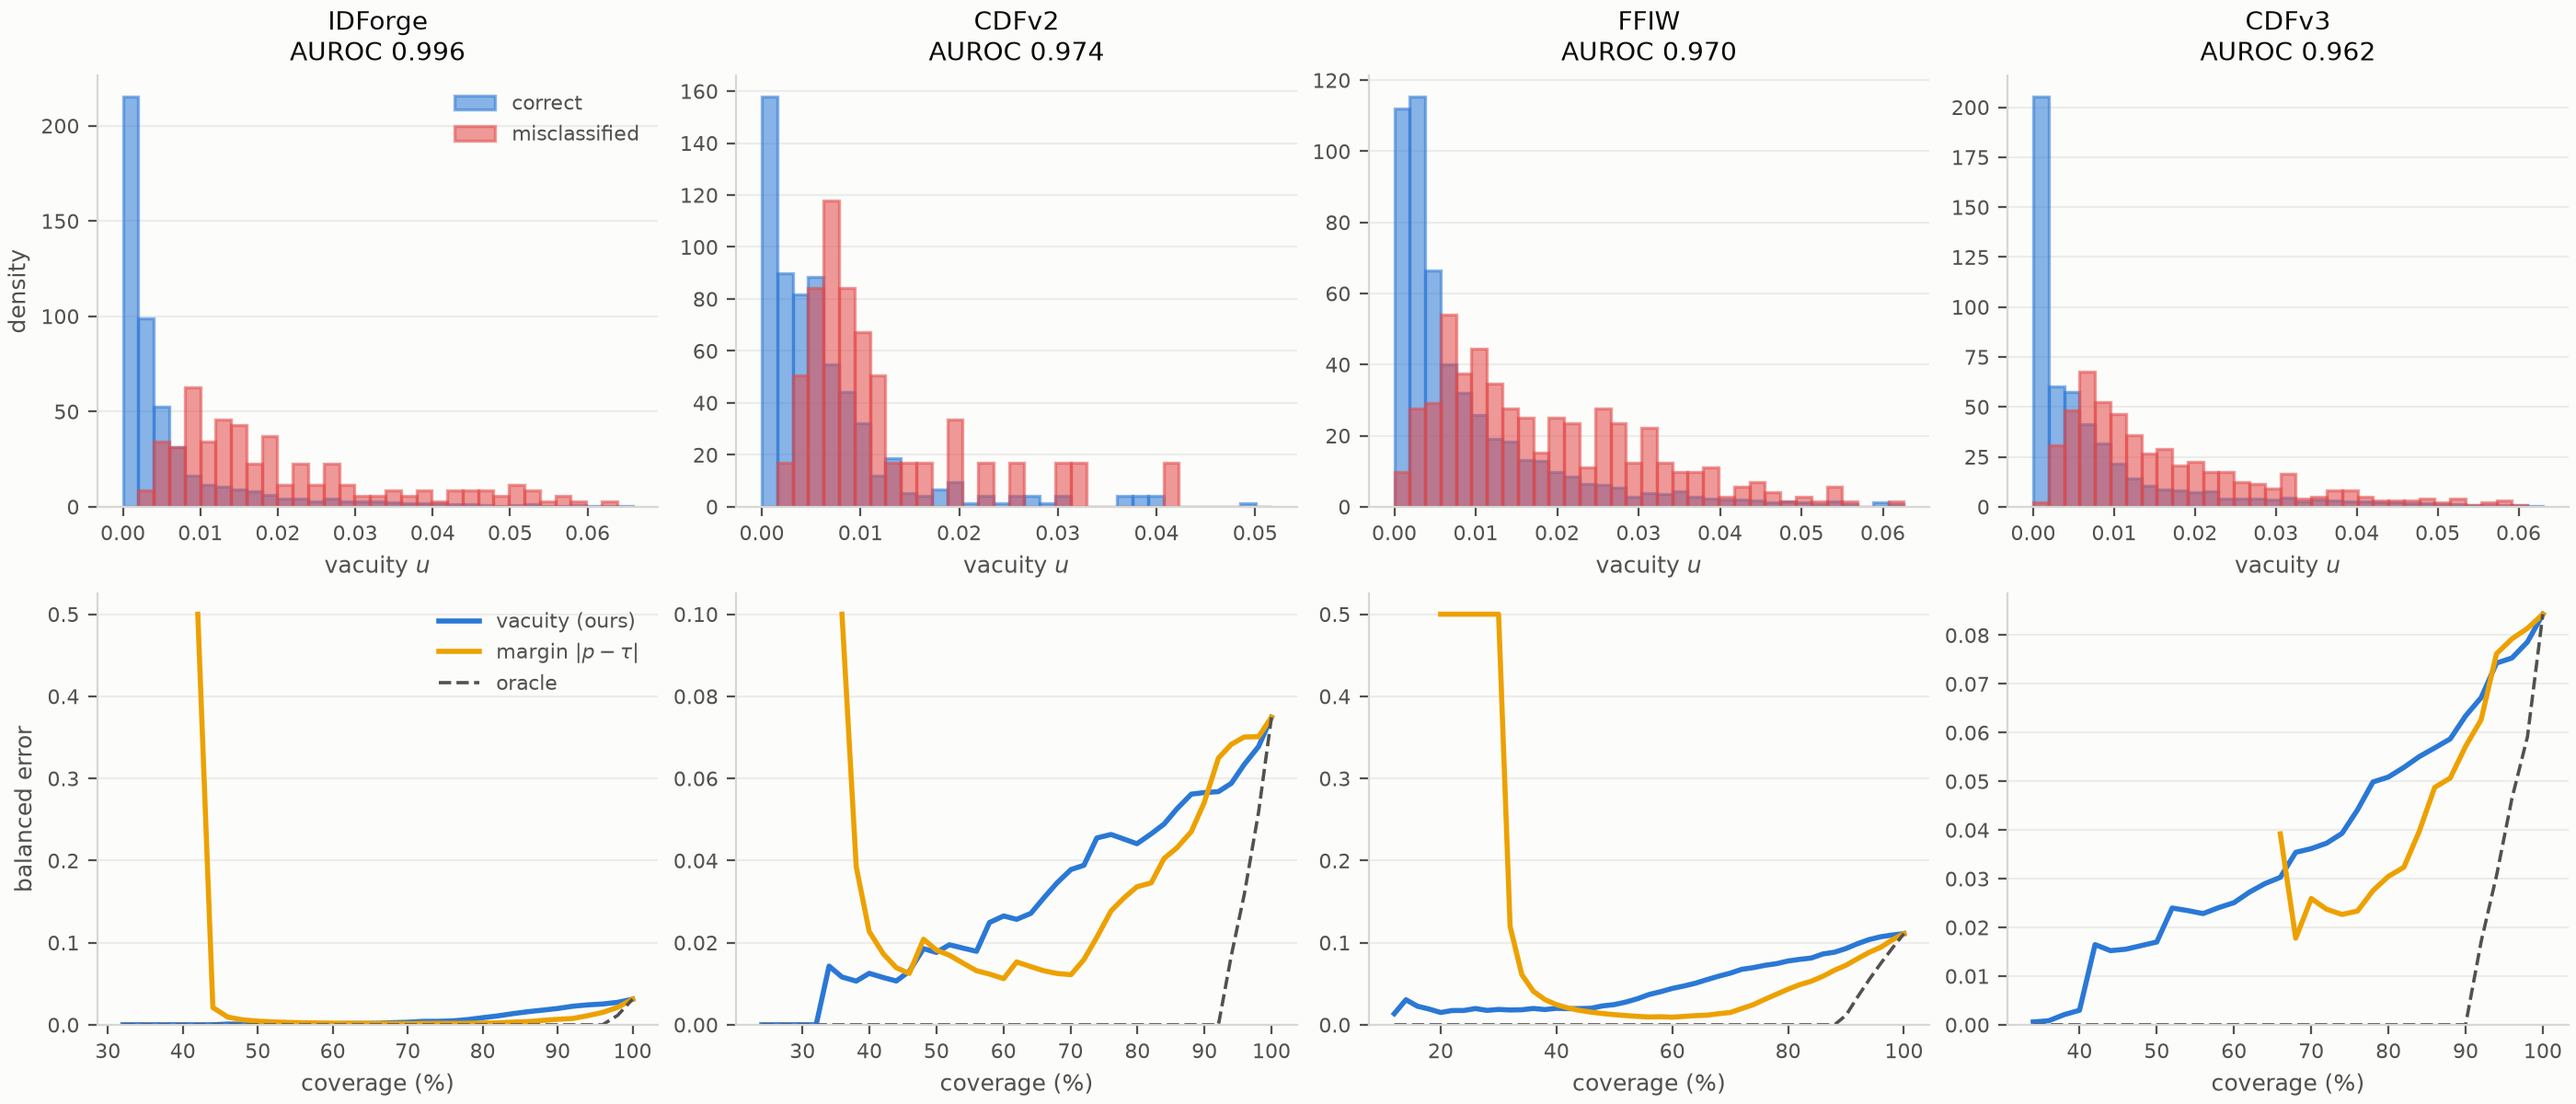
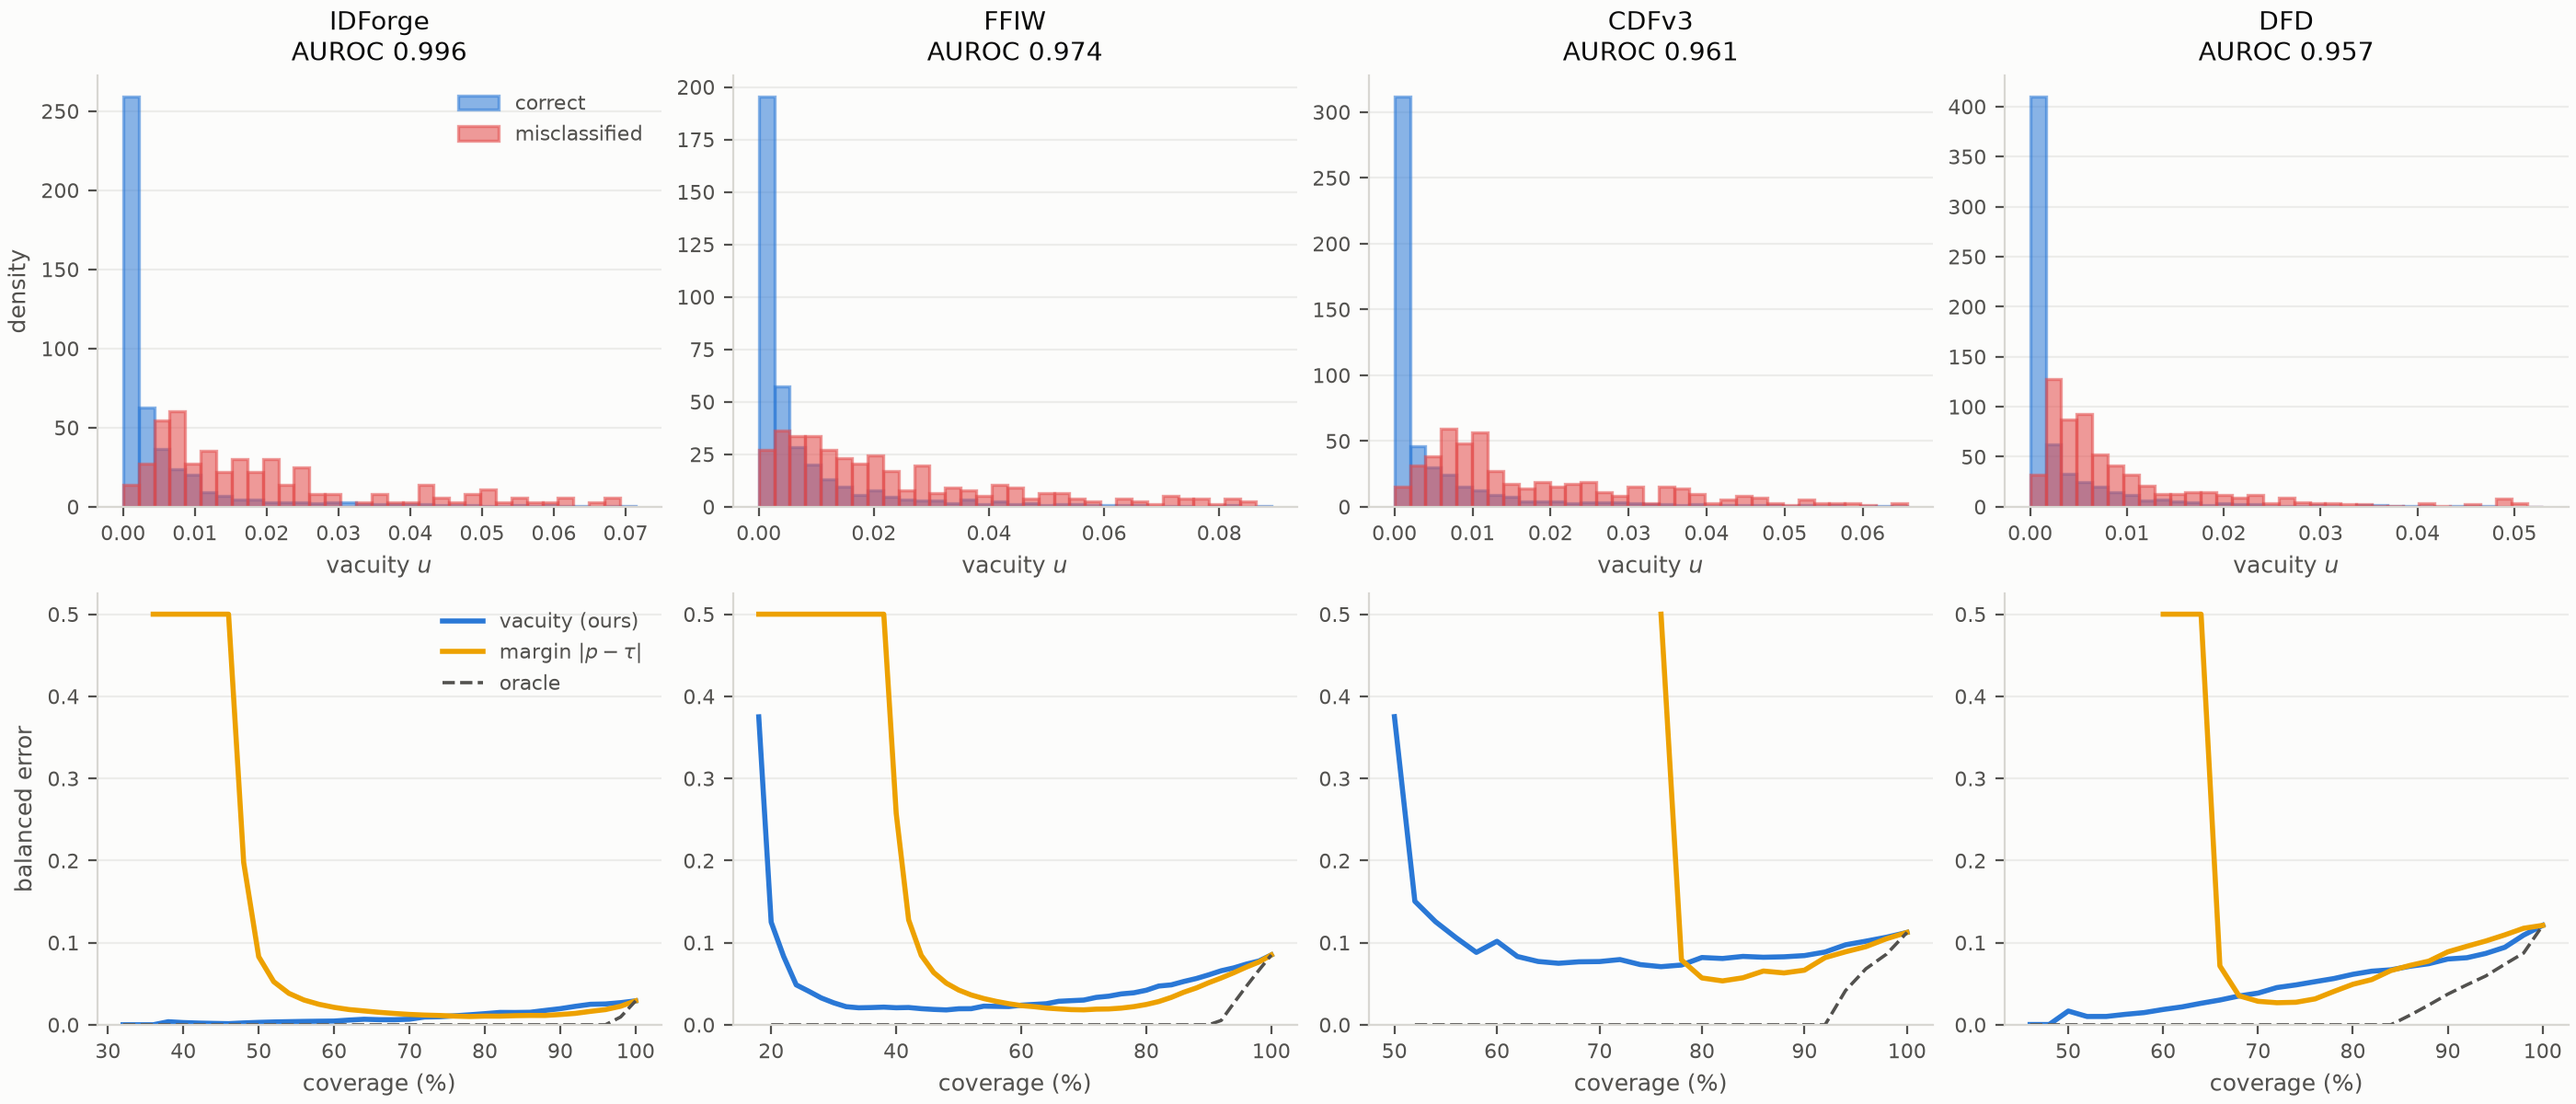
fusion: new GenD sets scored, all tables and the figure regenerated
Committed unattended overnight; see reports/branch_fusion/ORCHESTRATOR_LOG.md.

diff --git a/reports/branch_fusion/ORCHESTRATOR_LOG.md b/reports/branch_fusion/ORCHESTRATOR_LOG.md
@@ -114,4 +114,111 @@
       gate 2  phi vs A +0.500 < 0.6  -> PASS
       S16om is reported, not registered: a branch that fails either gate would either duplicate A or be worse than the same network without the residual.
 [2026-10-11T02:10:45-04:00] no branch passed both gates; the deployed selection stands
+[2026-10-11T02:10:54-04:00] committed: fusion: the PE-Core off-manifold campaign re-run with the residual in the optimiser
+[2026-10-11T02:10:54-04:00] === v3 finisher done ===
+[2026-10-11T10:49:36-04:00] seed replicate start: om_P16ctl_seed1 on GPU 1
+[2026-10-11T13:18:51-04:00] === robustness lane: Y16 vs A under jpeg:40 ===
+[2026-10-11T13:18:53-04:00] robustness: A extract failed on VALmix
+[2026-10-11T13:19:46-04:00] === robustness lane: Y16 vs A under jpeg:40 ===
+[2026-10-11T13:54:27-04:00] === robustness lane done -- see reports/branch_fusion/ROBUSTNESS_Y16.md ===
+[2026-10-11T14:13:20-04:00] === all-14 per-dataset grid: 16383 subsets across 32 shards ===
+[2026-10-11T14:15:43-04:00] === robustness lane (full): both conditions, development and test ===
+[2026-10-11T14:18:06-04:00] all-14 grid: shards done, merging
+[2026-10-11T14:18:08-04:00] all-14 grid MERGE FAILED -- see logs/branchfusion/lanes/grid_all14_merge.log
+[2026-10-11T14:18:37-04:00] === all-16 per-dataset grid: 65535 subsets across 64 shards ===
+[2026-10-11T14:28:46-04:00] === grid switch: waiting for P16ctlB to register ===
+[2026-10-11T14:44:21-04:00] grid switch: still waiting for P16ctlB (15 min)
+[2026-10-11T14:55:20-04:00] === robustness (parallel): 52 passes across GPUs 1, 3 and 0 ===
+[2026-10-11T14:59:56-04:00] grid switch: still waiting for P16ctlB (30 min)
+[2026-10-11T15:15:35-04:00] grid switch: still waiting for P16ctlB (45 min)
+[2026-10-11T15:27:22-04:00] all-16 grid retired EARLY: its rows are discarded by the 17-branch switch anyway, and at 4 subsets/min under extraction contention it was burning 64 cores for nothing
+[2026-10-11T15:31:11-04:00] grid switch: still waiting for P16ctlB (60 min)
+[2026-10-11T15:34:33-04:00] grid switch STOPPED: the all-subsets grid is not computable -- fit_weights searches 5^k - 4^k weight vectors, so all 2^17-1 subsets is 3024 core-years
+[2026-10-11T15:40:06-04:00] === final grid: waiting for P16ctlB ===
+[2026-10-11T15:55:53-04:00] final grid: still waiting for P16ctlB (15 min)
+[2026-10-11T16:11:28-04:00] final grid: still waiting for P16ctlB (30 min)
+[2026-10-11T16:27:01-04:00] final grid: still waiting for P16ctlB (45 min)
+[2026-10-11T16:40:43-04:00] om_P16ctl_seed1 DONE
+[2026-10-11T16:41:33-04:00] final grid: P16ctlB registered; 17 branches
+[2026-10-11T16:41:33-04:00] grid all17eq: sizes 1,2,3,4,5,6,7,8,9,10,11,12,13,14,15,16,17, weight grid equal, 128 shards
+[2026-10-11T16:43:10-04:00] === om_P16ctl_seed1 lane done ===
+[2026-10-11T16:53:53-04:00] robustness (parallel): extraction done; exporting Y16 opinions
+[2026-10-11T16:54:34-04:00] === robustness (parallel) done ===
+[2026-10-12T16:27:43-04:00] grid all17eq MERGE FAILED -- see logs/branchfusion/lanes/grid_all17eq_merge.log
+[2026-10-12T16:27:43-04:00] grid all17: sizes 1,2,3,4,5,6, weight grid locked, 128 shards
+[2026-10-12T17:16:57-04:00] packing DeepSpeak-2.0
+[2026-10-12T17:18:20-04:00] DeepSpeak-2.0 packed
+[2026-10-12T17:18:20-04:00] packing DeepSpeak-1.1
+[2026-10-12T17:20:33-04:00] DeepSpeak-1.1 packed
+[2026-10-12T17:20:33-04:00] === GenD packing done ===
+[2026-10-12T17:26:22-04:00] === O CE export: artifact view from the simple-CE run, 16 datasets ===
+[2026-10-12T17:26:28-04:00] O-CE CDFv2 FAILED
+[2026-10-12T17:26:34-04:00] O-CE CDFv3 FAILED
+[2026-10-12T17:26:40-04:00] O-CE DFD FAILED
+[2026-10-12T17:26:46-04:00] O-CE DFDC FAILED
+[2026-10-12T17:26:52-04:00] O-CE DFDCP FAILED
+[2026-10-12T17:26:58-04:00] O-CE DFEval24 FAILED
+[2026-10-12T17:27:04-04:00] O-CE FFIW FAILED
+[2026-10-12T17:27:09-04:00] O-CE KoDF FAILED
+[2026-10-12T17:27:16-04:00] O-CE IDForge FAILED
+[2026-10-12T17:27:21-04:00] O-CE DFDM FAILED
+[2026-10-12T17:27:27-04:00] O-CE VALmix FAILED
+[2026-10-12T17:27:33-04:00] O-CE VALmixV2 FAILED
+[2026-10-12T17:27:34-04:00] === O CE export: artifact view from the simple-CE run, 16 datasets ===
+[2026-10-12T17:27:39-04:00] O-CE FFpp_val FAILED
+[2026-10-12T17:27:45-04:00] O-CE UADFV FAILED
+[2026-10-12T17:27:50-04:00] O-CE DeepSpeak-1.1 FAILED
+[2026-10-12T17:27:53-04:00] O-CE CDFv2 FAILED
+[2026-10-12T17:27:57-04:00] O-CE DeepSpeak-2.0 FAILED
+[2026-10-12T17:27:57-04:00] O-CE DeepSpeak-2.0 FAILED
+[2026-10-12T17:28:10-04:00] O-CE CDFv3 FAILED
+[2026-10-12T17:28:27-04:00] O-CE DFD FAILED
+[2026-10-12T17:28:45-04:00] O-CE DFDC FAILED
+[2026-10-12T17:29:01-04:00] O-CE DFDCP FAILED
+[2026-10-12T17:30:03-04:00] === O CE export: artifact view from the simple-CE run, 16 datasets ===
+[2026-10-12T17:34:31-04:00] O-CE CDFv2 done
+[2026-10-12T17:43:04-04:00] CE arm start: ce_P16ctl on GPU 0
+[2026-10-12T17:43:04-04:00] CE arm start: ce_S16ctl on GPU 1
+[2026-10-12T18:16:50-04:00] O-CE CDFv3 done
+[2026-10-12T18:35:34-04:00] O-CE DFD done
+[2026-10-12T18:57:15-04:00] O-CE DFDC done
+[2026-10-12T19:00:20-04:00] O-CE DFDCP done
+[2026-10-12T19:04:25-04:00] O-CE DFEval24 done
+[2026-10-12T19:22:38-04:00] O-CE FFIW done
+[2026-10-12T19:35:03-04:00] O-CE KoDF done
+[2026-10-12T20:01:33-04:00] ce_P16ctl DONE
+[2026-10-12T20:06:11-04:00] O-CE IDForge done
+[2026-10-12T20:16:13-04:00] O-CE DFDM done
+[2026-10-12T20:22:56-04:00] O-CE VALmix done
+[2026-10-12T20:35:58-04:00] O-CE VALmixV2 done
+[2026-10-12T20:39:55-04:00] O-CE FFpp_val done
+[2026-10-12T20:40:45-04:00] O-CE UADFV done
+[2026-10-12T20:44:22-04:00] CE arm start: ce_V on GPU 3
+[2026-10-12T20:57:28-04:00] O-CE DeepSpeak-1.1 done
+[2026-10-12T21:16:07-04:00] ce_S16ctl DONE
+[2026-10-12T21:19:50-04:00] O-CE DeepSpeak-2.0 done
+[2026-10-12T21:19:50-04:00] === O CE export done ===
+[2026-10-12T22:03:05-04:00] ce_V DONE
+[2026-10-12T22:03:05-04:00] === CE arm lane done ===
+[2026-10-13T00:26:54-04:00] === scoring the five branches on UADFV DeepSpeak-1.1 DeepSpeak-2.0 ===
+[2026-10-13T00:27:24-04:00] A trunk cached: UADFV
+[2026-10-13T00:33:33-04:00] === chain: App CE head ===
+[2026-10-13T00:34:23-04:00] App CE head DONE
+[2026-10-13T00:34:23-04:00] chain: waiting for the new-set scoring
+[2026-10-13T00:35:05-04:00] A trunk cached: DeepSpeak-1.1
+[2026-10-13T00:43:50-04:00] A trunk cached: DeepSpeak-2.0
+[2026-10-13T01:14:42-04:00] chain: scoring drained after 40 min
+[2026-10-13T01:14:42-04:00] chain: regenerating tables
+[2026-10-13T01:15:12-04:00] === scoring the new sets (UADFV,DeepSpeak-1.1,DeepSpeak-2.0) ===
+[2026-10-13T01:17:19-04:00] === chain done -> reports/branch_fusion/PROPOSAL_TABLES.md ===
+[2026-10-13T01:34:08-04:00] STT exported on the new sets
+[2026-10-13T01:46:02-04:00] === overnight chain start ===
+[2026-10-13T01:52:26-04:00] STT-order exported on the new sets
+[2026-10-13T01:52:31-04:00] === new-set scoring v2 done ===
+[2026-10-13T01:53:05-04:00] overnight: STT lane drained after 7 min
+[2026-10-13T01:53:10-04:00] TD export FAILED
+[2026-10-13T01:55:02-04:00] LFS exported: UADFV
+[2026-10-13T02:26:41-04:00] LFS exported: DeepSpeak-1.1
+[2026-10-13T03:05:22-04:00] LFS exported: DeepSpeak-2.0
+[2026-10-13T03:05:42-04:00] overnight: regenerating tables
 ```

diff --git a/reports/branch_fusion/PROPOSAL_TABLES.md b/reports/branch_fusion/PROPOSAL_TABLES.md
@@ -1,6 +1,6 @@
 # Proposal results — all tables, every dataset
 
-Regenerated 2026-10-13T01:10:07-04:00. Framework: **App + TD + LFS + STT**, fused with PCR6+-R.
+Regenerated 2026-10-13T03:09:45-04:00. Framework: **App + TD + LFS + STT**, fused with PCR6+-R.
 
 | id | thesis name | what it is |
 |---|---|---|
@@ -8,10 +8,9 @@ Regenerated 2026-10-13T01:10:07-04:00. Framework: **App + TD + LFS + STT**, fuse
 | V | **TD** | Temporal Dynamics — V-JEPA 2 LoRA, 16 frames |
 | O | **LFS** | Latent Facial Structure — CLIP/β-VAE orthogonal residual |
 | S16ctl | **STT** | Spatio-Temporal Texture — PE-Core block 16 + real relative timestamps |
-| P16ctl | **STT-order** | the same with learned slot positions (positional-encoding ablation) |
+| P16ctl | **STT-order** | the same with learned slot positions |
 
-Both STT variants derive from Dr Kutub's PE-Core temporal branch, which reads the final
-attention pool where these read block 16.
+Figures: reports/branch_fusion/figures/uncertainty_riskcoverage.png
 
 ---
 
@@ -198,4 +197,5 @@ column, not a handicap we imposed.
 | FSFM-Adapter | 0.0758 | 0.0855 | 0.2099 | 0.0968 | 0.0678 | 0.0879 | 0.2186 | 0.0423 | 0.0671 | *in progress* | *in progress* | *in progress* | 0.1057 |
 | Effort | 0.0416 | 0.0346 | 0.0120 | 0.0778 | 0.0627 | 0.0394 | 0.0421 | 0.0438 | 0.0037 | *in progress* | *in progress* | *in progress* | 0.0397 |
 | ForAda | 0.0203 | 0.1552 | 0.0262 | 0.0772 | 0.0634 | 0.0593 | 0.0879 | 0.0436 | 0.0038 | *in progress* | *in progress* | *in progress* | 0.0597 |
+
 
